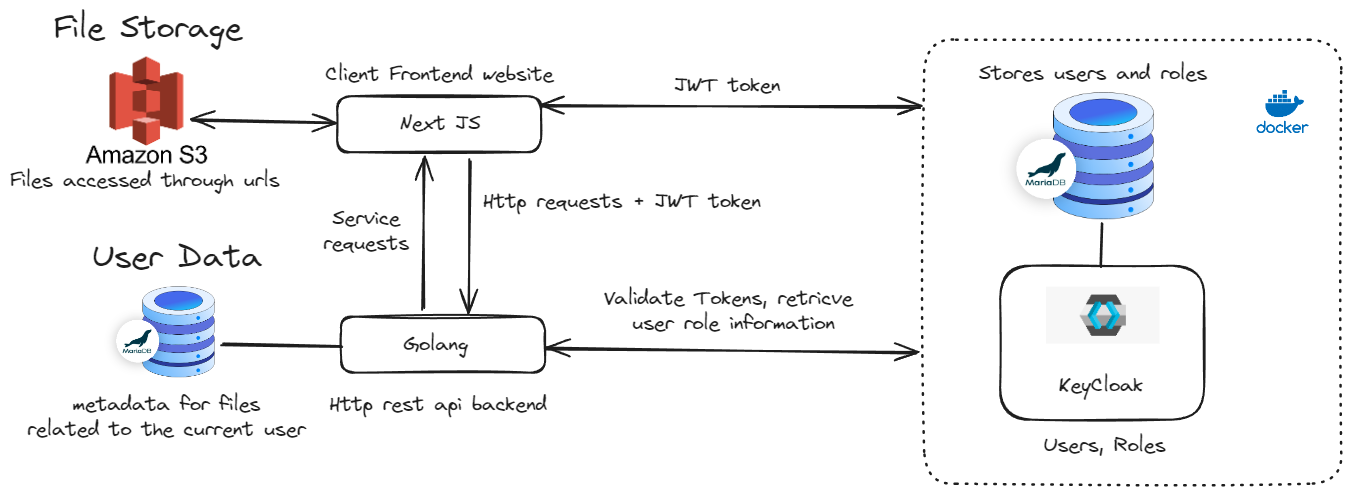
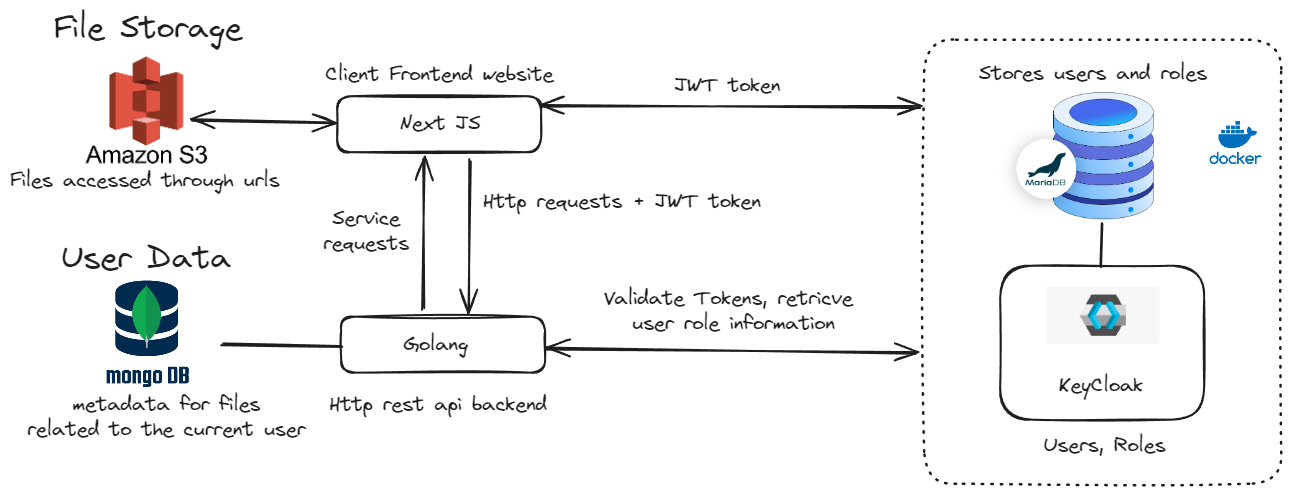
Update README to do list

diff --git a/README.md b/README.md
@@ -29,11 +29,11 @@ If you are looking to get started on keycloak yourself, I folowed a great tutori
 ![Example Image](research/images/file-storage.png)
 
 ### To do for this milestone:
-- We have a mongodb setup our backend needs to be able to access the db read and write: to maintain security the backend api needs to be authenticated 
-much like how keycloak authenticates. To do this we enable auth and create a user with appropriate privilidges, allowing us to login.
-- Once we are able to store metadata here, download, upload etc (no actual files move) we move onto implementing s3. We have chosen to go with generating urls each time 
+- ✅ We have a mongodb setup our backend needs to be able to access the db read and write
+- ✅ Once we are able to store metadata here, download, upload etc (no actual files move) we move onto implementing s3. We have chosen to go with generating urls each time 
 as such for each file the "s3bucket" and "s3ObjectKey" need to be stored in the mongodb, on file creation, allowing us to generate urls which can be passed back to the client.
 I suggest that these urls be time limited.
+- Its all integrated in the example in "LearningMongoDB", we need to migrate these to our API and we will have a working backend! 
 - The client will need a lot of work at this point to handle everything, access the s3 instance and display things well
 
 # The rest of these milestones are considered extensions to the project 

diff --git a/LearningMongoDB/README.md b/LearningMongoDB/README.md
@@ -13,3 +13,8 @@
 [Tutorial 2: Amazon S3 Absolute Basics](https://www.youtube.com/watch?v=FLIp6BLtwjk)
 
 - note not in video: I am generating an IAM user with a access key and secret key. This is to allow my backend to sign urls to provide my frontend access to files. However a cool solution in the future if this ever becomes production would be to use IAM roles which creates temporary access and this can be used if my backend is run on a EC2 instance.
+
+# Usage
+- If you would like to test the backend returning required URLS you will need to create your own s3 instance and set the environment variables
+- after this, you need to run the docker-compose in the docker compose file to create the mongodb database. There is a .bat file ready for you
+- after this you are free to run ```go run .``` and you can make the appropriate requests in the thunderclient
